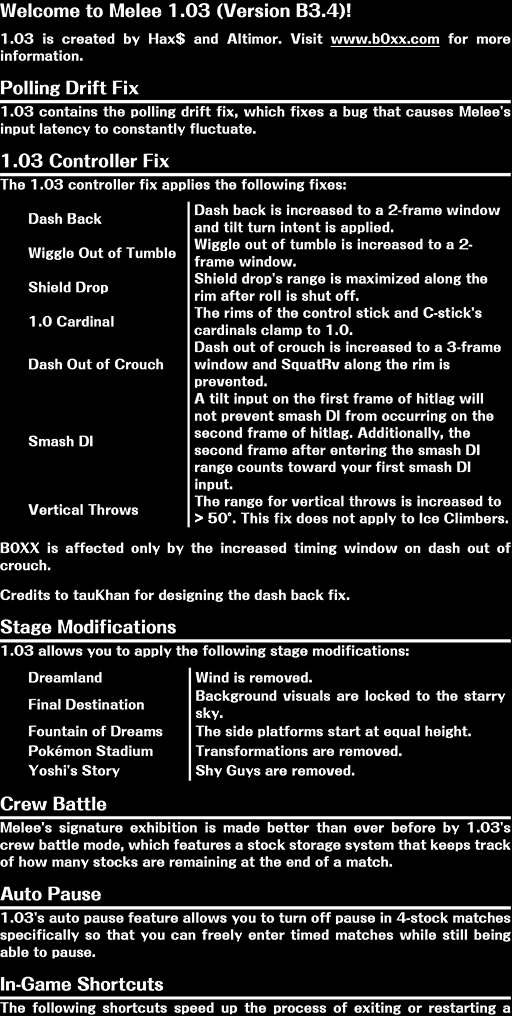
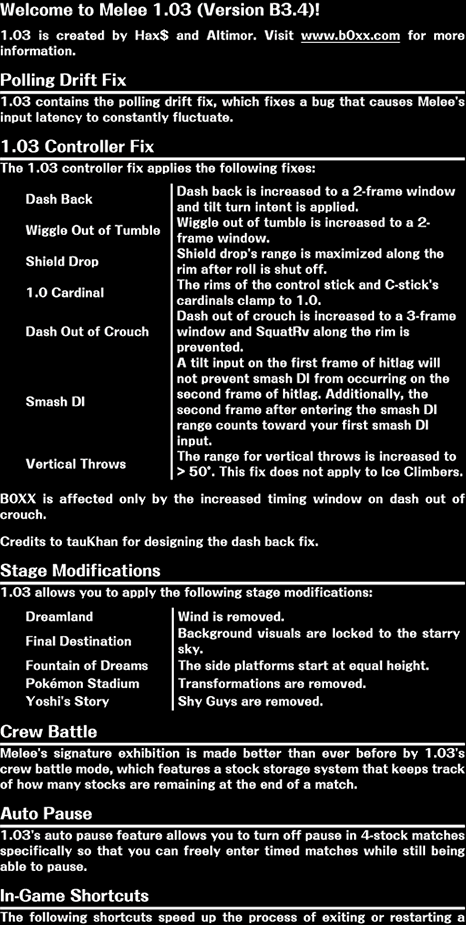
Draw manual texture in 2D with 1:1 size

diff --git a/src/mod/src/menu/manual.cpp b/src/mod/src/menu/manual.cpp
@@ -14,6 +14,7 @@
 #include "util/draw/render.h"
 #include "util/draw/texture.h"
 #include "util/melee/text_builder.h"
+#include <cmath>
 #include <gctypes.h>
 
 #ifdef NOPAL
@@ -26,11 +27,12 @@
 #include "resources/screens/manual_border.tex.h"
 #include "resources/screens/scrollbar.tex.h"
 
-#ifdef NOPAL
-constexpr auto MAX_SCROLL = 2.114f;
-#else
-constexpr auto MAX_SCROLL = 2.847f;
-#endif
+constexpr auto scissor_w = 516;
+constexpr auto scissor_h = 288;
+constexpr auto scissor_x = 320 - scissor_w / 2;
+constexpr auto scissor_y =  88;
+
+constexpr auto manual_margin = 13;
 
 static texture texture_p1;
 static texture texture_p2;
@@ -40,6 +42,7 @@ static texture texture_scrollbar;
 static mempool pool;
 
 static float scroll_offset;
+static int scroll_frames;
 
 static Text *text;
 
@@ -59,6 +62,12 @@ constexpr auto bottom_text = text_builder::build(
 	text_builder::reset_scale(),
 	text_builder::end_color());
 
+static float max_scroll_offset()
+{
+	const auto total_height = texture_p1.height() + texture_p2.height();
+	return (float)std::max(total_height - (scissor_h - manual_margin * 2), 0);
+}
+
 static void manual_input(HSD_GObj *gobj)
 {
 	const auto buttons = Menu_GetButtons(PORT_ALL);
@@ -69,8 +78,9 @@ static void manual_input(HSD_GObj *gobj)
 		Menu_PlaySFX(MenuSFX_Back);
 		Text_Free(text);
 		pool.dec_ref();
-		Menu_MainMenuTransition(MenuType_VsMode, 3, MenuState_ExitTo);
-		return;
+
+		// Frees gobj
+		return Menu_MainMenuTransition(MenuType_VsMode, 3, MenuState_ExitTo);
 	}
 
 	auto total_y = 0.f;
@@ -82,9 +92,15 @@ static void manual_input(HSD_GObj *gobj)
 			total_y += y;
 	}
 
-	total_y = clamp(total_y, -1.f, 1.f);
+	if (total_y == 0) {
+		scroll_frames = 0;
+		return;
+	}
 
-	scroll_offset = clamp(scroll_offset - total_y * .0125f, 0.f, MAX_SCROLL);
+	const auto delta = clamp(total_y, -1.f, 1.f) * 7.f;
+	scroll_offset = clamp(scroll_offset - delta, 0.f, max_scroll_offset());
+
+	scroll_frames++;
 }
 
 static void draw_manual(HSD_GObj *gobj, u32 pass)
@@ -93,31 +109,19 @@ static void draw_manual(HSD_GObj *gobj, u32 pass)
 		return;
 
 	auto &rs = render_state::get();
-	rs.reset_3d();
-
-	constexpr auto scissor_w = 516;
-	constexpr auto scissor_h = 288;
-	constexpr auto scissor_x = 320 - scissor_w / 2;
-	constexpr auto scissor_y =  88;
-
+	rs.reset_2d();
 	rs.set_scissor(scissor_x, scissor_y, scissor_w, scissor_h);
 
-	constexpr auto scale    = 25.0f;
-	constexpr auto manual_y =  7.5f;
-	constexpr auto manual_z = 17.0f;
+	constexpr auto manual_z = 17;
 
-	const auto scale_p1 = vec2(1, -texture_p1.inv_ratio()) * scale;
-	const auto scale_p2 = vec2(1, -texture_p2.inv_ratio()) * scale;
-	const auto pos_p1 = vec3(0, manual_y + scroll_offset * scale, manual_z);
-	const auto pos_p2 = pos_p1 + vec3(0, scale_p1.y, 0);
+	const auto pos_p1 = vec3(320, scissor_y + manual_margin - scroll_offset, manual_z);
+	const auto pos_p2 = pos_p1 + vec3(0, texture_p1.height(), 0);
 
-	rs.fill_rect(pos_p1, scale_p1, color_rgba::white, texture_p1,
+	rs.fill_rect(pos_p1, vec2(texture_p1.size()), color_rgba::white, texture_p1,
 	             uv_coord::zero, uv_coord::one, align::top);
 
-	rs.fill_rect(pos_p2, scale_p2, color_rgba::white, texture_p2,
+	rs.fill_rect(pos_p2, vec2(texture_p2.size()), color_rgba::white, texture_p2,
 	             uv_coord::zero, uv_coord::one, align::top);
-
-	rs.reset_2d();
 
 	constexpr auto border_color = color_rgba::hex(0x929196FFu);
 
@@ -132,7 +136,7 @@ static void draw_manual(HSD_GObj *gobj, u32 pass)
 
 	const auto scrollbar_y = lerp(scrollbar_area_top,
 	                              scrollbar_area_bottom - scrollbar_size.y,
-	                              scroll_offset / MAX_SCROLL);
+	                              scroll_offset / max_scroll_offset());
 
 	rs.fill_tiled_rect(vec3(scrollbar_area_right, scrollbar_y, manual_z), scrollbar_size,
 	                   border_color, texture_scrollbar, align::top_right);
@@ -143,6 +147,7 @@ extern "C" void hook_Menu_EnterCustomRulesMenu()
 	manual_open = true;
 
 	scroll_offset = 0;
+	scroll_frames = 0;
 
 	MenuTypePrevious = MenuType;
 	MenuType = MenuType_Rules;

diff --git a/src/mod/src/melee/menu.h b/src/mod/src/melee/menu.h
@@ -100,6 +100,8 @@ void Menu_PlaySFX(s32 sfx);
 
 void Menu_ExitToRulesMenu();
 void Menu_CreateRandomStageMenu();
+
+// Frees current gobj
 void Menu_MainMenuTransition(u32 menu_type, u16 index, u8 state);
 
 void Menu_SetGObjPrio(HSD_GObj *gobj);
